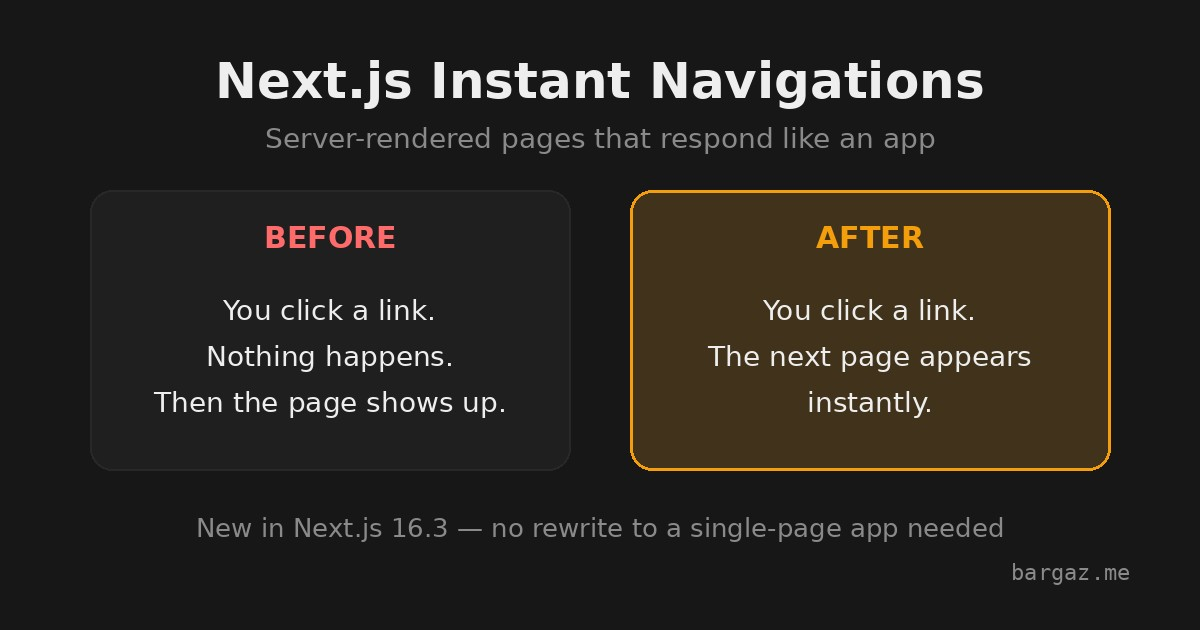
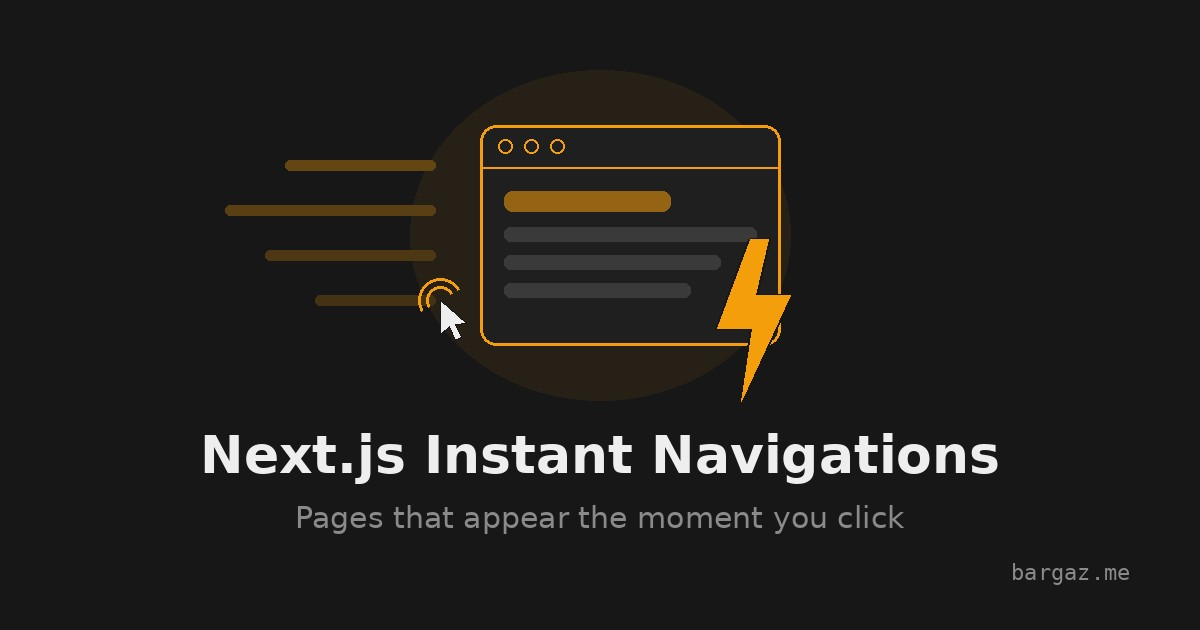
post: swap hero for illustration version

Changed region(s): [[0.1542, 0.0905, 0.925, 0.7841], [0.1542, 0.7841, 0.8325, 0.8746], [0.1233, 0.5429, 0.4317, 0.6635]]

diff --git a/content/.content-calendar.md b/content/.content-calendar.md
@@ -1,8 +1,8 @@
 # Content Calendar
 
 - 2026-06-14 · D · Keep a Brag Document: The 10-Minute Habit That Wins Your Next Promotion · post/keep-a-brag-document-as-an-engineer
-- 2026-06-21 · A · The React Compiler Quietly Ends the useMemo Era · post/react-compiler-and-the-end-of-usememo (hero: template 2 Before/After)
+- 2026-06-21 · A · The React Compiler Quietly Ends the useMemo Era · post/react-compiler-and-the-end-of-usememo (hero: illustration — browser window + cursor + bolt)
 - 2026-06-28 · B · AGENTS.md: The One File That Makes AI Coding Agents Actually Useful · post/write-an-agents-md-file (hero: template 1 Concept flow)
 - 2026-07-12 · C · Preventing Double Charges: The Frontend Bug That Bills a Customer Twice · post/preventing-double-charges-on-the-frontend (hero: template 3 Big statement)
 - 2026-07-19 · D · Decision Fatigue Is the Real AI Burnout, and One Rule Fixes It · post/decision-fatigue-ai-code-review (hero: template 4 Icon+headline)
-- 2026-08-02 · A · Next.js Instant Navigations: Your Server App Can Finally Feel Like a SPA · post/nextjs-instant-navigations (hero: template 2 Before/After)
+- 2026-08-02 · A · Next.js Instant Navigations: Your Server App Can Finally Feel Like a SPA · post/nextjs-instant-navigations (hero: illustration — browser window + cursor + bolt)
